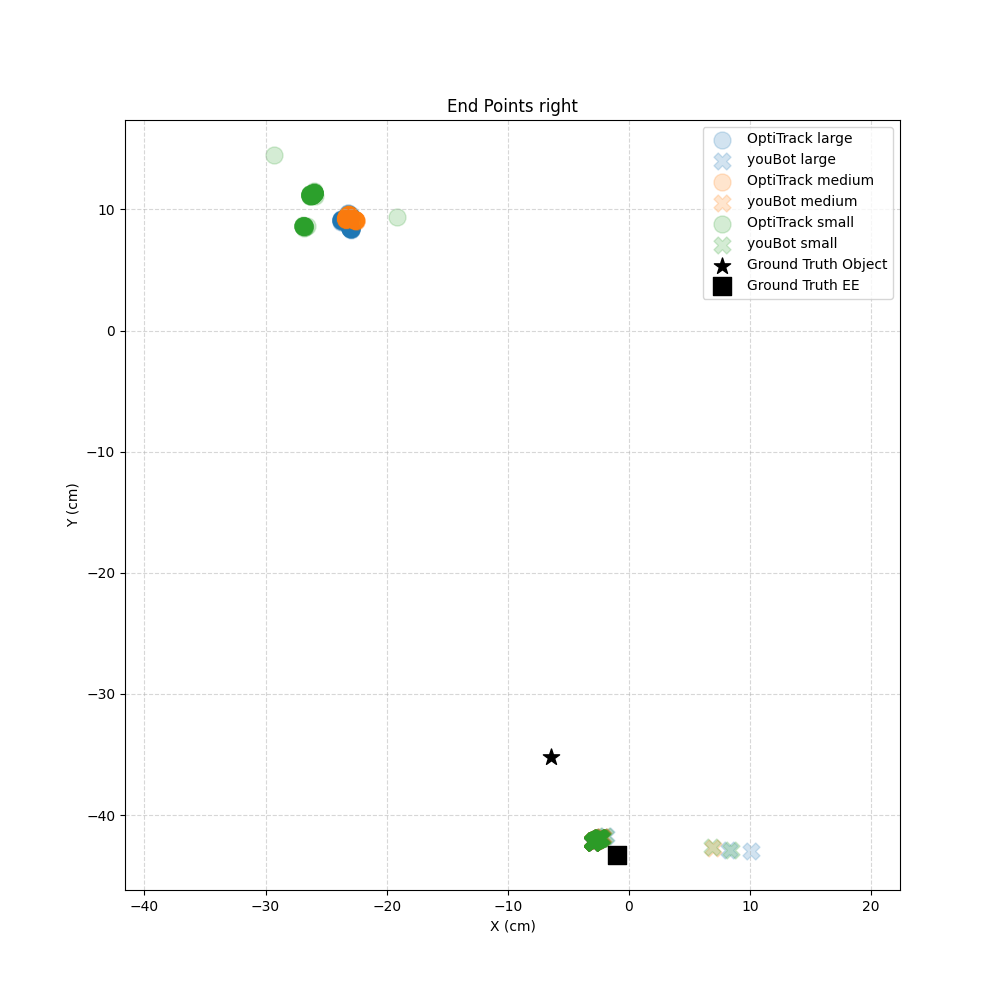
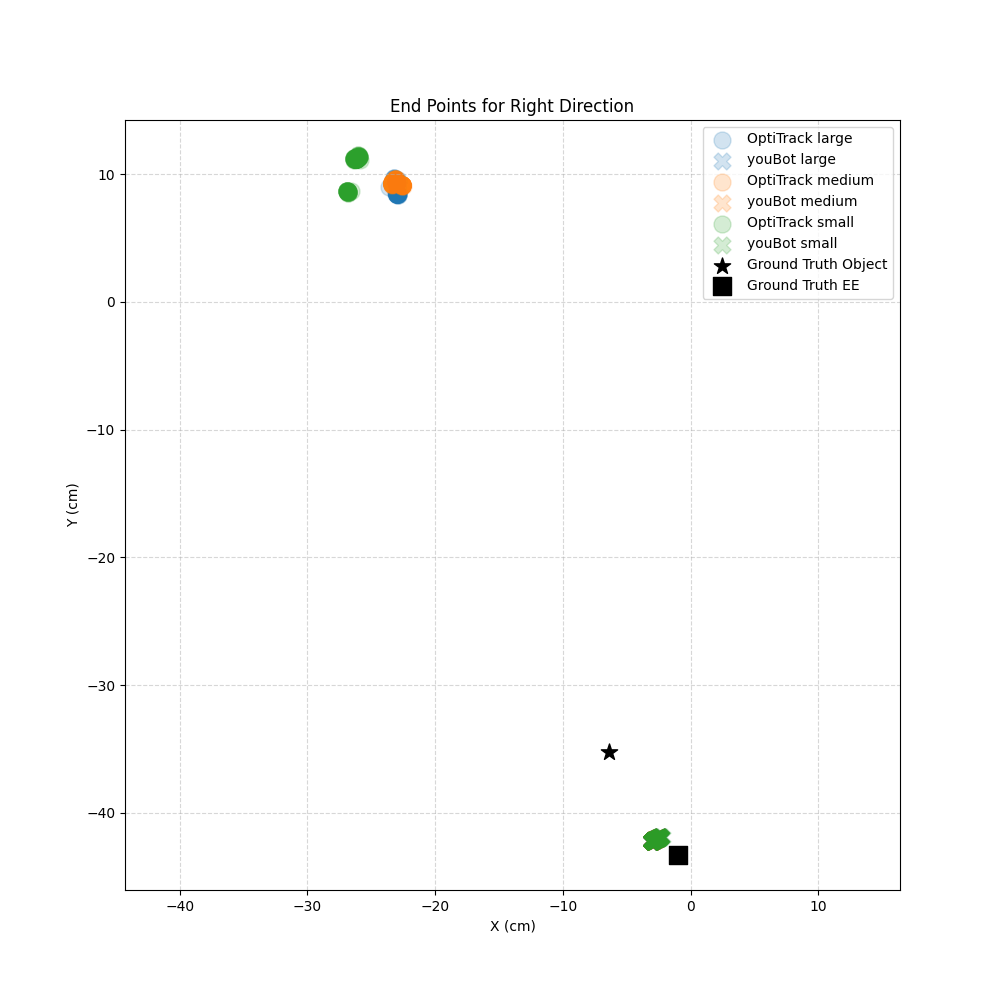
outlier removed for plotting

diff --git a/code/youBot_analysis.py b/code/youBot_analysis.py
@@ -91,9 +91,9 @@ for config in DATA_CONFIG:
                             last_row = rows.iloc[1]
 
                             # OptiTrack: [X_cm, Theta_rad, Y_cm]
-                            start_point = [first_row['X.1'], first_row['Y'], first_row['Z.1']]
+                            start_point = [first_row['X.1'], first_row['Z.1'], first_row['Y']]
                             # Apply end point offset
-                            end_point = [last_row['X.1'] + 212.4, last_row['Y'], last_row['Z.1'] - 76.17]
+                            end_point = [last_row['X.1'] + 212.4, last_row['Z.1'] - 76.17, last_row['Y']]
 
                         elif source == 'rob':
                             # --- YOUBOT DATA LOADING ---
@@ -114,7 +114,7 @@ for config in DATA_CONFIG:
                             start_point = [0, 0, 0]
 
                             # End point: [X_cm, Theta_rad, Y_cm] (Meters * 100 to cm)
-                            end_point = [mean_x * 100, mean_theta, mean_y * 100]
+                            end_point = [mean_x * 100, mean_y * 100, mean_theta]
 
                         else:
                             continue
@@ -148,7 +148,7 @@ SOURCES = ['opti', 'rob']
 POINTS = ['start', 'end']
 
 # Initialize the new data store
-# Structure: combined_data_store[size_base][direction][source_point_key] = np.array([[X, Theta, Y], ...])
+# Structure: combined_data_store[size_base][direction][source_point_key]
 combined_data_store = {
     size_base: {
         d: {
@@ -214,7 +214,34 @@ for size_base in COMBINED_OBJECT_BASES:
                 combined_data[size_base][dir_name][key] = np.array([])
 
 print(f"--- Aggregation Complete. {total_concatenations} arrays were concatenated. ---")
-#(combined_data['large']['left']['opti_end'].shape)
+
+
+def remove_outliers_chebyshev(data, k=2):
+    """
+    Filters 2D/3D points. A point is removed if X OR Y is > k std devs away.
+    Expects data in format [X, Theta, Y] (based on previous logic).
+    Returns cleaned data and count of removed points.
+    """
+    if data.size == 0: return data, 0
+
+    # Extract X (col 0) and Y (col 2)
+    x = data[:, 0]
+    y = data[:, 2]
+
+    mean_x, std_x = np.mean(x), np.std(x)
+    mean_y, std_y = np.mean(y), np.std(y)
+
+    # Create mask: True if point is VALID (within k sigma)
+    mask_x = np.abs(x - mean_x) <= (k * std_x)
+    mask_y = np.abs(y - mean_y) <= (k * std_y)
+
+    # Combine masks (Must be valid in BOTH X and Y to stay)
+    final_mask = mask_x & mask_y
+
+    cleaned_data = data[final_mask]
+    removed_count = len(data) - len(cleaned_data)
+
+    return cleaned_data, removed_count
 
 # --- Configuration ---
 DIRECTIONS = ['left', 'straight', 'right']
@@ -249,19 +276,25 @@ for current_dir in DIRECTIONS:
 
     plt.figure(figsize=(10, 10))
 
-
     for size in SIZES:
         opti_data = combined_data[size][current_dir]['opti_end']
         rob_data = combined_data[size][current_dir]['rob_end']
 
-        plt.scatter(opti_data[:, 0], opti_data[:, 2],
+        opti_data, _ = remove_outliers_chebyshev(opti_data, k=2)
+        rob_data, _ = remove_outliers_chebyshev(rob_data, k=2)
+
+        opti_data, _ = remove_outliers_chebyshev(opti_data, k=2)
+        rob_data, _ = remove_outliers_chebyshev(rob_data, k=2)
+
+
+        plt.scatter(opti_data[:, 0], opti_data[:, 1],
             label=f'OptiTrack {size}',
             color=SIZE_COLORS[size],
             alpha=0.2,
             s=S,
             marker='o')
 
-        plt.scatter(rob_data[:, 0], rob_data[:, 2],
+        plt.scatter(rob_data[:, 0], rob_data[:, 1],
             label=f'youBot {size}',
             color=SIZE_COLORS[size],
             alpha=0.2,
@@ -280,7 +313,7 @@ for current_dir in DIRECTIONS:
 
 
     # C. Plotting Details and Dual Legend Placement
-    plt.title(f'End Points {current_dir}')
+    plt.title(f'End Points for {current_dir.capitalize()} Direction')
     plt.xlabel('X (cm)')
     plt.ylabel('Y (cm)')
     plt.grid(True, linestyle='--', alpha=0.5)
@@ -288,3 +321,56 @@ for current_dir in DIRECTIONS:
     plt.legend()
     # 5. Save the figure
     plt.savefig(f'../figures/youbot/{current_dir}.png')
+
+
+## Accuracy and Precision Analysis
+
+# A helper function to calculate the precision using the maximum eigenvalue
+def calculate_pca_precision(data):
+    """
+    Calculates precision based on the maximum eigenvalue of the
+    covariance matrix of the x and y coordinates (first two columns).
+    This value represents the variance along the principal component.
+    """
+    # 1. Select only the x and y coordinates (first two columns)
+    coords = data[:, 0:2]
+
+    # 2. Calculate the covariance matrix for the x and y coordinates
+    # The result is a 2x2 matrix
+    cov_matrix = np.cov(coords, rowvar=False)
+    # rowvar=False means that each column is a variable (x, y)
+
+    # 3. Calculate the eigenvalues of the covariance matrix
+    # The eigenvalues represent the variance along the principal axes
+    eigenvalues = np.linalg.eigvals(cov_matrix)
+
+    # 4. The maximum eigenvalue is a measure of the largest variance (precision)
+    max_eigenvalue = np.max(eigenvalues)
+
+    # Often, precision is represented by the standard deviation, so we
+    # take the square root of the max eigenvalue to get the principal
+    # standard deviation (sigma along the longest axis).
+    principal_std = np.sqrt(max_eigenvalue)
+
+    return principal_std
+
+# --- Your original loop, modified for PCA Precision ---
+for dir in DIRECTIONS:
+    for size in SIZES:
+        mean_opti = np.mean(combined_data[size][current_dir]['opti_end'], axis=0)
+        mean_rob = np.mean(combined_data[size][current_dir]['rob_end'], axis=0)
+
+        ground_obj = np.array(GT_OBJ[dir][0:2])*100
+        ground_rob = np.array(GT_EE[dir][0:2])*100
+
+        print(f"[ACC OPTI]{dir},{size}:", np.linalg.norm(mean_opti[0:2]-ground_obj))
+        print(f"[ACC ROB]{dir},{size}:", np.linalg.norm(mean_opti[0:2]-ground_rob))
+
+        # --- PCA Precision Calculation ---
+        prec_opti_pca = calculate_pca_precision(combined_data[size][current_dir]['opti_end'])
+        prec_rob_pca = calculate_pca_precision(combined_data[size][current_dir]['rob_end'])
+
+        # NOTE: The printout for PCA precision is a single scalar value,
+        # unlike the original which was an array [std_x, std_y].
+        print(f"[PRE OPTI PCA]{dir},{size}:", prec_opti_pca)
+        print(f"[PRE ROB PCA]{dir},{size}:", prec_rob_pca)

diff --git a/subfiles/exp05/deli05_results.tex b/subfiles/exp05/deli05_results.tex
@@ -1,103 +1,25 @@
 %5. Describe the images poses used for calibration and report the found camera parameters including any error estimates (where applicable)
 %6. Sample images used for calibration
-Figure \ref{fig:large} shows the images of the plots of the large mass being moved to different end poses, which includes both OptiTrack and internal encoder measurements.
+Figures \ref{fig:left} to \ref{fig:right} depict the end points of the mass and the end effector and compares them to the given ground truth for each. These figures show that the experiment setup has a very large systematic error, leading to very low accuracy. The precision appears to be high except for the small mass. It is important to note that the orientation of the mass are not shown, due to misalignment of the object during placement back to the start position by a human. In the following sections the data is further analyized.
 
 \begin{figure}[H]
 	\centering
-	% --- First Row (2 images) ---
-	\begin{subfigure}[t]{0.48\linewidth} % Slightly smaller width for 2x2
-		\centering
-		\includegraphics[width=\linewidth]{figures/youbot/EndPt_large_right.png}
-		\caption{Right End Poses}
-	\end{subfigure}
-	\hfill % Space between the two subfigures
-	\begin{subfigure}[t]{0.48\linewidth} % Slightly smaller width for 2x2
-		\centering
-		\includegraphics[width=\linewidth]{figures/youbot/EndPt_large_left.png}
-		\caption{Left End Poses}
-	\end{subfigure}
-	% --- Add vertical space for a new row ---
-	\vspace{1em} % Adds a small vertical gap between the rows
-
-	% --- Second Row (2 images) ---
-	\begin{subfigure}[b]{0.48\linewidth} % Slightly smaller width for 2x2
-		\centering
-		\includegraphics[width=\linewidth]{figures/youbot/EndPt_large_straight.png}
-		\caption{Straight End Poses}
-	\end{subfigure}
-	\hfill % Space between the two subfigures
-	
-
-	\caption{Large Mass End Poses}
-	\label{fig:large}
+	\includegraphics[width=\linewidth]{figures/youbot/left.png}
+	\caption{Left Direction End Poses}
+	\label{fig:left}
 \end{figure}
-
-
-Figure \ref{fig:medium} shows the images of the plots of the medium mass being moved to different end poses, which includes both OptiTrack and internal encoder measurements.
-
-\begin{figure}[H]
-	\centering
-	% --- First Row (2 images) ---
-	\begin{subfigure}[t]{0.48\linewidth} % Slightly smaller width for 2x2
-		\centering
-		\includegraphics[width=\linewidth]{figures/youbot/EndPt_medium_right.png}
-		\caption{Right End Poses}
-	\end{subfigure}
-	\hfill % Space between the two subfigures
-	\begin{subfigure}[t]{0.48\linewidth} % Slightly smaller width for 2x2
-		\centering
-		\includegraphics[width=\linewidth]{figures/youbot/EndPt_medium_left.png}
-		\caption{Left End Poses}
-	\end{subfigure}
-	% --- Add vertical space for a new row ---
-	\vspace{1em} % Adds a small vertical gap between the rows
-
-	% --- Second Row (2 images) ---
-	\begin{subfigure}[b]{0.48\linewidth} % Slightly smaller width for 2x2
-		\centering
-		\includegraphics[width=\linewidth]{figures/youbot/EndPt_medium_straight.png}
-		\caption{Straigth End Poses}
-	\end{subfigure}
-	\hfill % Space between the two subfigures
-	
-
-	\caption{Medium Mass End Poses}
-	\label{fig:medium}
-\end{figure}
-
-Figure \ref{fig:small} shows the images of the plots of the small mass being moved to different end poses, which includes both OptiTrack and internal encoder measurements.
 
 
 \begin{figure}[H]
 	\centering
-	% --- First Row (2 images) ---
-	\begin{subfigure}[t]{0.48\linewidth} % Slightly smaller width for 2x2
-		\centering
-		\includegraphics[width=\linewidth]{figures/youbot/EndPt_small_right.png}
-		\caption{Right End Poses}
-	\end{subfigure}
-	\hfill % Space between the two subfigures
-	\begin{subfigure}[t]{0.48\linewidth} % Slightly smaller width for 2x2
-		\centering
-		\includegraphics[width=\linewidth]{figures/youbot/EndPt_small_left.png}
-		\caption{Left End Poses}
-	\end{subfigure}
-	% --- Add vertical space for a new row ---
-	\vspace{1em} % Adds a small vertical gap between the rows
-
-	% --- Second Row (2 images) ---
-	\begin{subfigure}[b]{0.48\linewidth} % Slightly smaller width for 2x2
-		\centering
-		\includegraphics[width=\linewidth]{figures/youbot/EndPt_small_straight.png}
-		\caption{Straight End Poses}
-	\end{subfigure}
-	\hfill % Space between the two subfigures
-	
-
-	\caption{Small Mass End Poses}
-	\label{fig:small}
+	\includegraphics[width=\linewidth]{figures/youbot/straight.png}
+	\caption{Straight Direction End Poses}
+	\label{fig:straight}
 \end{figure}
 
-
-These figures show that the experiment setup has a very large systematic error, leading to very low accuracy. The precision is much higher, and all teams data does align. The largest variance lies in the object orientation. This is due to manual rotation of the object, and not aligning it correctly each time.
-
+\begin{figure}[H]
+	\centering
+	\includegraphics[width=\linewidth]{figures/youbot/right.png}
+	\caption{Right Direction End Poses}
+	\label{fig:right}
+\end{figure}

diff --git a/subfiles/exp05/deli05_exp_setup.tex b/subfiles/exp05/deli05_exp_setup.tex
@@ -1,17 +1,33 @@
-The experiment was conducted using a KUKA youBot (ID 3) in lab C069. The task involved pick and place operations with three different objects moved to three target poses (Straight, Left, Right). The ground truth coordinates for the opti track positions were defined as follows:
+The experiment was conducted using a KUKA youBot (ID 3) in lab C069. The task involved pick and place operations with three different objects moved to three target poses (Straight, Left, Right). The ground truth coordinates for the opti track positions and the end effector were defined in Tables \ref{tab:object_poses} and \ref{tab:ee_poses} respectively.
 \begin{table}[H]
-    \centering
-    \begin{tabular}{|l|c|c|c|}
-        \hline
-        \textbf{Pose} & \textbf{$x(m)$} & \textbf{$y(m)$} & \textbf{$\theta(rad)$} \\
-        \hline
-        Pick & $0.143$ & $-0.351$ & $-1.65$ \\
-        Straight & $0.150$ & $-0.212$ & $-1.65$ \\
-        Left & $0.356$ & $-0.283$ & $-2.08$ \\
-        Right & $-0.064$ & $-0.352$ & $-1.13$ \\
-        \hline
-    \end{tabular}
-    \caption{Ground truth object poses}
-    \label{tab:object_poses}
+	\centering
+	\begin{tabular}{|l|c|c|c|}
+		\hline
+		\textbf{Pose} & \textbf{$x(m)$} & \textbf{$y(m)$} & \textbf{$\theta(rad)$} \\
+		\hline
+		Pick          & $0.143$         & $-0.351$        & $-1.65$                \\
+		Straight      & $0.150$         & $-0.212$        & $-1.65$                \\
+		Left          & $0.356$         & $-0.283$        & $-2.08$                \\
+		Right         & $-0.064$        & $-0.352$        & $-1.13$                \\
+		\hline
+	\end{tabular}
+	\caption{Ground truth object poses}
+	\label{tab:object_poses}
+\end{table}
+
+\begin{table}[H]
+	\centering
+	\begin{tabular}{|l|c|c|c|}
+		\hline
+		\textbf{Pose} & \textbf{$x(m)$} & \textbf{$y(m)$} & \textbf{$\theta(rad)$} \\
+		\hline
+		Pick          & $0.152$         & $-0.457$        & $-1.65$                \\
+		Straight      & $0.167$         & $-0.317$        & $-1.62$                \\
+		Left          & $0.331$         & $-0.380$        & $-2.11$                \\
+		Right         & $-0.01$         & $-0.433$        & $-1.11$                \\
+		\hline
+	\end{tabular}
+	\caption{Ground truth end effector poses}
+	\label{tab:ee_poses}
 \end{table}
 Motion data was captured using an OptiTrack external vision system (Motive software) and internal ROS bagfiles.

diff --git a/subfiles/exp06/deli06_stat_analysis.tex b/subfiles/exp06/deli06_stat_analysis.tex
@@ -1,5 +1,7 @@
- - accuracy of the arm
- - does the distribution of the object follow gaussian distribution?
- - how change in shape and mass affect the accuracy and precision, is it statistically significant?
- - how much the change of the placing pose (L - R - S) affect the accuracy and precision, is it statistically significant?
- - which of the above mentioned factors(change in object vs change in placing pose) has the most significant effect on the accuracy and precision? 
+%- accuracy of the arm
+%- does the distribution of the object follow gaussian distribution?
+%- how change in shape and mass affect the accuracy and precision, is it statistically significant?
+%- how much the change of the placing pose (L - R - S) affect the accuracy and precision, is it statistically significant?
+%- which of the above mentioned factors(change in object vs change in placing pose) has the most significant effect on the accuracy and precision?
+
+To find the accuracy and precision of the youBot robot arm, the gathered data has to be further analyzed. First outliers were removed using

diff --git a/subfiles/exp06/experiment06.tex b/subfiles/exp06/experiment06.tex
@@ -14,13 +14,8 @@ This report documents the execution of 225 experimental trials using the KUKA yo
 \subsection{Statistical Analysis}
 \input{deli06_stat_analysis.tex}
 
-\subsection{Table}
-\input{deli05_tables.tex}
-
 \subsection{List of software and functions used}
-\input{deli05_software_list.tex}
+\input{deli06_software_list.tex}
 
-\subsection{Results}
-\input{deli06_results.tex}
 
 \end{document}

diff --git a/SEE_Report_Huppertz_HW_XX.tex b/SEE_Report_Huppertz_HW_XX.tex
@@ -82,10 +82,12 @@
 
 \subfile{subfiles/exp05/experiment05.tex}
 
+\subfile{subfiles/exp06/experiment06.tex}
+
 \bibliographystyle{IEEEtran}
 %\bibliography{references}
 
-%\subfile{subfiles/statement_of_originality}
+\subfile{subfiles/statement_of_originality}
 \subfile{subfiles/appendix}
 
 \end{document}

diff --git a/subfiles/exp06/deli06_software_list.tex b/subfiles/exp06/deli06_software_list.tex
@@ -1,1 +1,1 @@
-- list of used software and include the source of any functions you wrote for performing your analysis
+%- list of used software and include the source of any functions you wrote for performing your analysis
